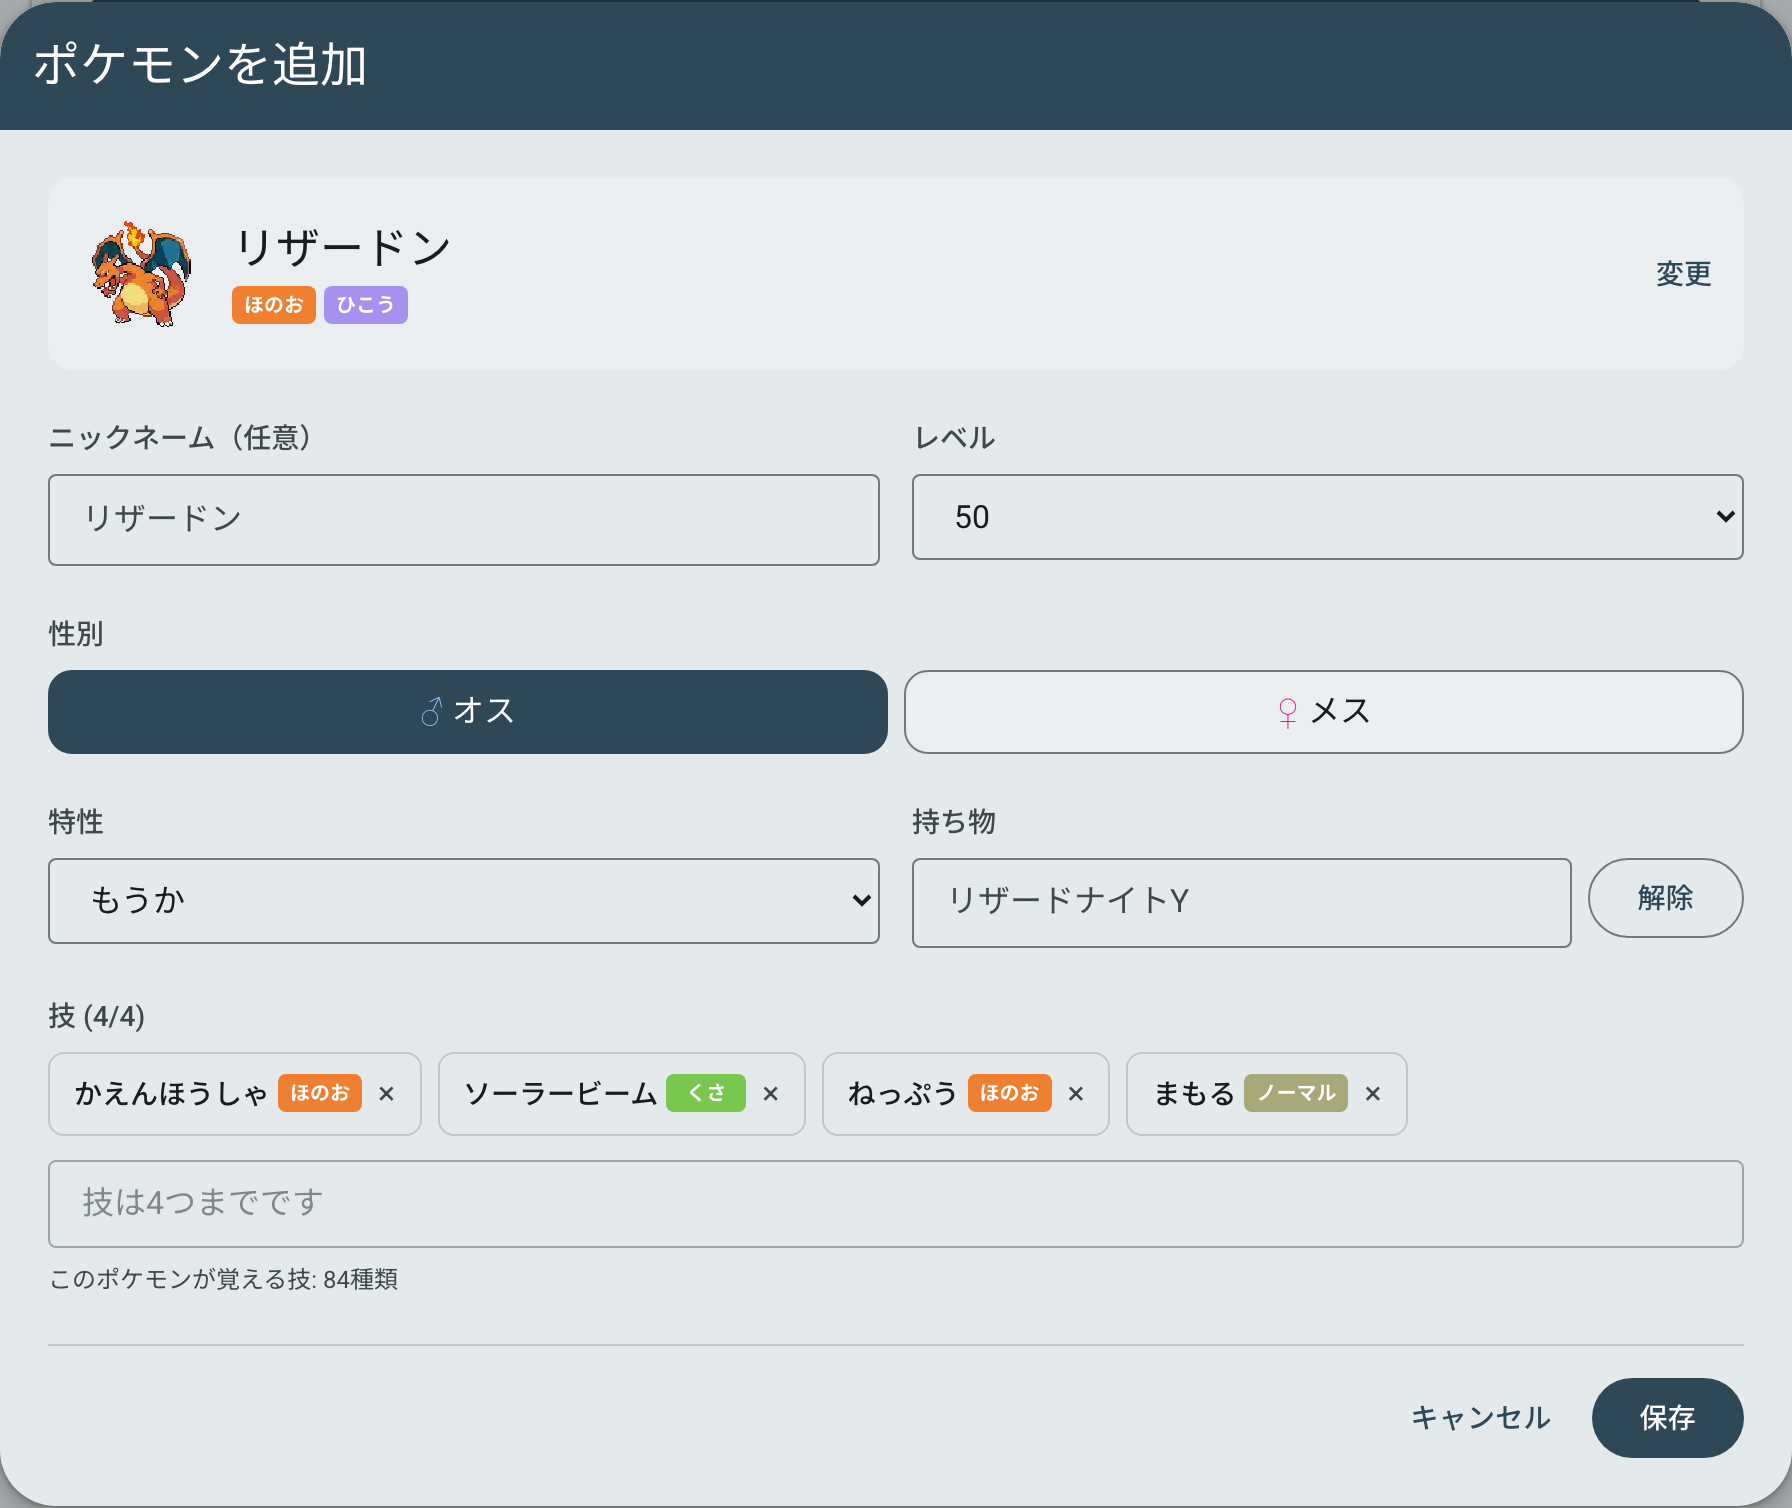
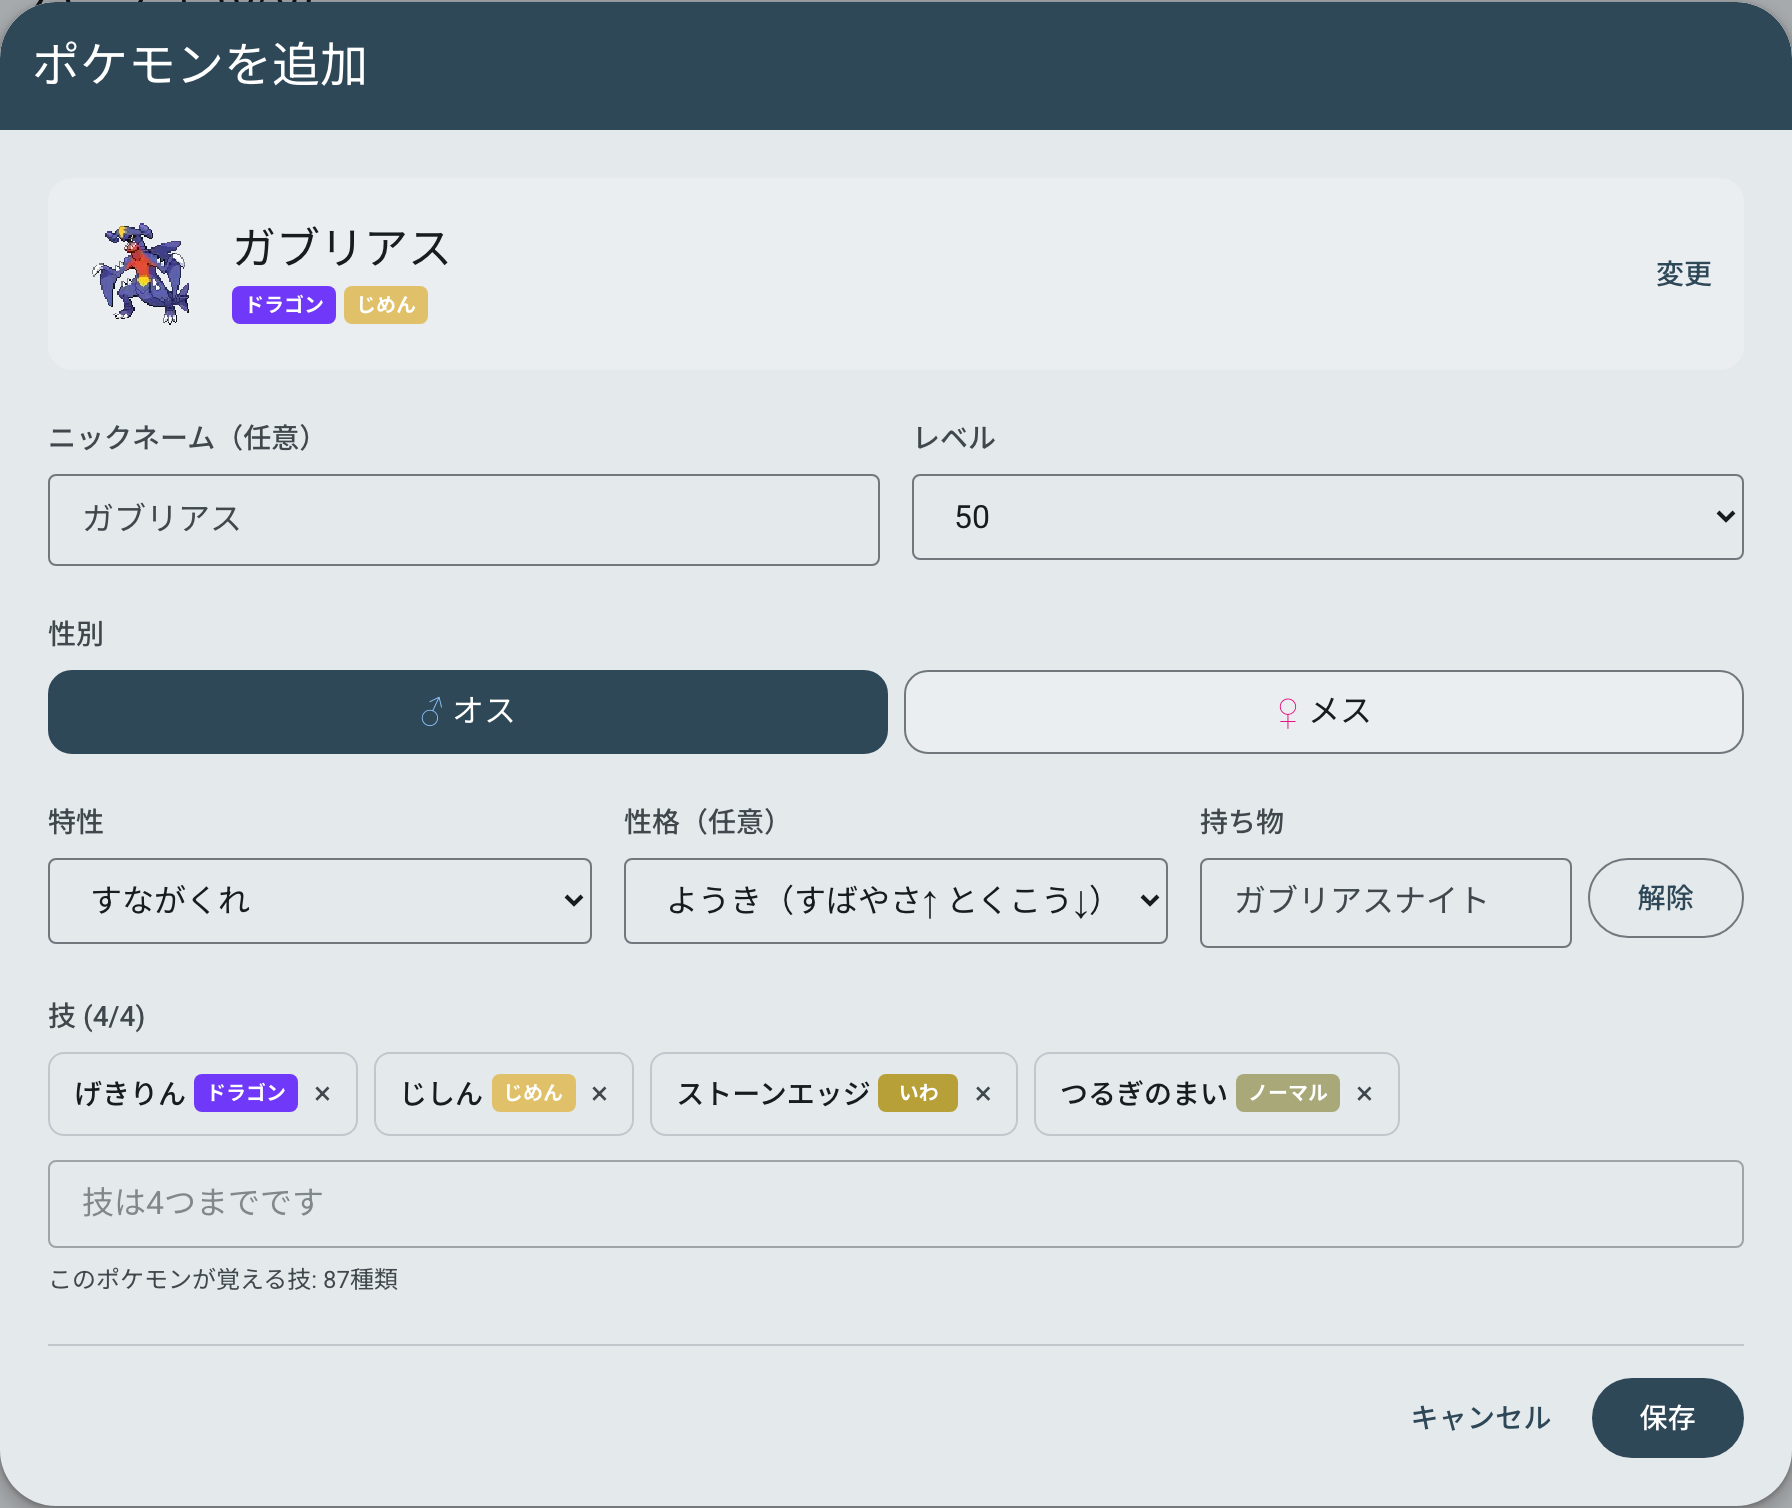
docs: 性格・チャンピオンズ風カード・めざめるパワー対応をREADMEと開発文書に反映
- README: 性格（任意・21種・使用頻度順）とめざめるパワーのタイプ別選択を
  使い方・できること・制限事項に追記（日英両方）
- スクリーンショット3枚を新カードレイアウト・性格セレクトが写る状態で撮り直し
- DEVELOPMENT.md: エディタ項目表に性格を追加、めざめるパワーの展開方式と
  PokemonCard 統一（CompactPokemonCard 削除）をUI・テスト・構成ツリーに反映
- CLAUDE.md: スタック記述を実態（Supabase）に修正

diff --git a/docs/DEVELOPMENT.md b/docs/DEVELOPMENT.md
@@ -97,8 +97,9 @@ flowchart TD
 | レベル | 1〜50 のセレクト（既定 50） |
 | 性別 | `オス`/`メス`/`不明`。種族から自動判定し、両性いる種族のみ選択UIを出す（`lib/gender.ts`） |
 | 特性 | 通常特性 + 隠れ特性 |
+| 性格 | 任意・21種（補正なし5性格は対戦上同等なので「まじめ」1つに集約）。よく使う10性格を先頭にした使用頻度順で、`ようき（すばやさ↑ とくこう↓）` 形式の補正付きラベルで表示（`lib/natures.ts`） |
 | 持ち物 | 対戦用アイテムに絞り込み + そのポケモン専用メガストーン（`lib/item-helpers.ts`, `ItemAutocomplete.tsx`） |
-| 技 | 種族別の習得可能技のみを候補に出す。タイプ・分類・威力・命中・PP を表示（`MoveAutocomplete.tsx`）。1〜4つ |
+| 技 | 種族別の習得可能技のみを候補に出す。タイプ・分類・威力・命中・PP を表示（`MoveAutocomplete.tsx`）。1〜4つ。めざめるパワーはタイプ別16種（`めざめるパワー（闘）` など）に展開して提示する — 展開は `lib/hidden-power.ts` を使って API とprebuildスクリプト側で行い、`pokemon-moves.json` は変更しない |
 | タイプ表示 | 18タイプのカラーバッジ（`lib/type-colors.ts`, `TypeIcon.tsx`） |
 
 `lib/gender.ts` の固定性別リストは PokeAPI の `gender_rate`（メス確率の8分率、`-1` は性別なし）から抽出したもの。第6世代は種族が確定しているため更新不要。
@@ -136,6 +137,8 @@ flowchart TD
 #### UI
 
 Material Design 3 のカラーロール（seed `#2F4858`）とエレベーションを CSS 変数で定義し、Tailwind CSS 4 の `@theme inline` にマッピングしている（`app/globals.css`）。Toast 通知（`Toast.tsx`）と読み込み中スケルトン（`Skeleton.tsx`）あり。レスポンシブ対応。
+
+パーティのカード表示はチャンピオンズ風の `PokemonCard.tsx` に統一（ホーム・ビルダー・共有ビューで共用）。カラーヘッダー（名前＋性別アイコン｜タイプ＋レベル）、技4枠のフル幅・省略なし表示、特性・性格・持ち物のラベル付きグリッドで構成し、モバイル375px幅でも全項目が読めることを `tests/e2e/mobile-card.spec.ts` で検証している。
 
 ### 技術スタック
 
@@ -283,7 +286,7 @@ npm run test:all       # 単体 → E2E
 ### テスト
 
 - **単体（Vitest, happy-dom）** — `tests/unit/`: `api-validation` / `gender` / `item-helpers` / `move-helpers` / `team-encoder` / `user-id`
-- **E2E（Playwright）** — `tests/e2e/`。`localhost:3003` で起動する（`next dev` の既定 3000 と衝突させないため `playwright.config.ts` で明示指定）。パーティ作成・ポケモン編集・削除・持ち物選択・共有・2ユーザー間共有・ユーザー分離・各種上限（パーティ数／ポケモン数／技数）をカバー
+- **E2E（Playwright）** — `tests/e2e/`。`localhost:3003` で起動する（`next dev` の既定 3000 と衝突させないため `playwright.config.ts` で明示指定）。パーティ作成・ポケモン編集・削除・持ち物選択・共有・2ユーザー間共有・ユーザー分離・各種上限（パーティ数／ポケモン数／技数）・モバイル幅でのカード全項目表示をカバー
 - **CI** — `.github/workflows/ci.yml`。`main` への PR と push で **lint → 単体テスト → build**（Node 20）。E2E は CI に含めていない
 
 ### ディレクトリ構成
@@ -312,8 +315,7 @@ npm run test:all       # 単体 → E2E
 │       ├── PokemonAutocomplete.tsx  # 種族検索（日英）
 │       ├── MoveAutocomplete.tsx     # 技検索
 │       ├── ItemAutocomplete.tsx     # 持ち物・メガストーン検索
-│       ├── PokemonCard.tsx          # 詳細表示
-│       ├── CompactPokemonCard.tsx   # 一覧・サンプル用
+│       ├── PokemonCard.tsx          # チャンピオンズ風カード（全画面で共用）
 │       ├── TeamView.tsx             # パーティ表示
 │       ├── ShareUrlDialog.tsx       # 共有URLダイアログ
 │       ├── TypeIcon.tsx             # タイプバッジ
@@ -328,6 +330,8 @@ npm run test:all       # 単体 → E2E
 │   ├── api-validation.ts        # Zod スキーマ・サイズ上限
 │   ├── rate-limit.ts            # インメモリ・スライディングウィンドウ
 │   ├── gender.ts                # 種族別の性別判定
+│   ├── natures.ts               # 性格21種・使用頻度順・補正ラベル
+│   ├── hidden-power.ts          # めざめるパワーのタイプ別16種展開
 │   ├── item-helpers.ts / move-helpers.ts / pokemon-data.ts
 │   ├── type-colors.ts / clipboard.ts / sample-team.ts
 ├── hooks/useDebouncedValue.ts   # 検索入力のデバウンス
@@ -387,8 +391,9 @@ Design premises:
 | Level | Select, 1–50 (defaults to 50) |
 | Gender | `オス`/`メス`/`不明` (male/female/unknown). Derived from the species; the selector is only rendered for species that have both (`lib/gender.ts`) |
 | Ability | Normal abilities plus the hidden ability |
+| Nature | Optional, one of 21 (the five neutral natures are competitively identical, so only まじめ represents them). Listed most-used first — the top 10 competitive natures, then the rest — each labelled with its stat changes, e.g. `ようき（すばやさ↑ とくこう↓）` (`lib/natures.ts`) |
 | Held item | Filtered to competitive items, plus the Mega Stone specific to that species (`lib/item-helpers.ts`, `ItemAutocomplete.tsx`) |
-| Moves | 1–4, suggested only from that species' learnable moves, shown with type, damage class, power, accuracy and PP (`MoveAutocomplete.tsx`) |
+| Moves | 1–4, suggested only from that species' learnable moves, shown with type, damage class, power, accuracy and PP (`MoveAutocomplete.tsx`). Hidden Power is expanded into 16 typed variants (`めざめるパワー（闘）` and so on) — the expansion lives in `lib/hidden-power.ts` and is applied by the API and the prebuild script; `pokemon-moves.json` itself is untouched |
 | Type display | 18 colour-coded type badges (`lib/type-colors.ts`, `TypeIcon.tsx`) |
 
 The fixed-gender lists in `lib/gender.ts` were extracted from PokeAPI's `gender_rate` (chance of being female in eighths; `-1` means genderless). Gen 6 species are final, so this never needs updating.
@@ -426,6 +431,8 @@ The fixed-gender lists in `lib/gender.ts` were extracted from PokeAPI's `gender_
 #### UI
 
 Material Design 3 colour roles (seed `#2F4858`) and elevations are defined as CSS variables and mapped into Tailwind CSS 4 via `@theme inline` (`app/globals.css`). Includes toast notifications (`Toast.tsx`) and loading skeletons (`Skeleton.tsx`). Responsive.
+
+Team cards use the Champions-style `PokemonCard.tsx` everywhere (home, builder, share view): a coloured header (name + gender icon | types + level), all four move slots rendered full-width with no truncation, and a labelled ability / nature / item grid. `tests/e2e/mobile-card.spec.ts` verifies every field stays readable at a 375px mobile viewport.
 
 ### Tech stack
 
@@ -573,7 +580,7 @@ Static JSON under `data/`. Move data originates from PokeAPI.
 ### Tests
 
 - **Unit (Vitest, happy-dom)** — `tests/unit/`: `api-validation` / `gender` / `item-helpers` / `move-helpers` / `team-encoder` / `user-id`
-- **E2E (Playwright)** — `tests/e2e/`, served on `localhost:3003` (set explicitly in `playwright.config.ts` to avoid colliding with `next dev`'s default 3000). Covers creating a team, editing Pokémon, deleting, item selection, sharing, two-user sharing, user isolation, and each limit (team count / Pokémon count / move count)
+- **E2E (Playwright)** — `tests/e2e/`, served on `localhost:3003` (set explicitly in `playwright.config.ts` to avoid colliding with `next dev`'s default 3000). Covers creating a team, editing Pokémon, deleting, item selection, sharing, two-user sharing, user isolation, each limit (team count / Pokémon count / move count), and full card visibility at mobile width
 - **CI** — `.github/workflows/ci.yml`: on PRs and pushes to `main`, **lint → unit tests → build** (Node 20). E2E is not part of CI
 
 ### Directory layout
@@ -583,7 +590,7 @@ See the Japanese section above for the annotated tree; the structure is:
 ```
 app/        pages (page, builder, my-teams, view, view/[shortId]) + api/ route handlers
 components/ SessionInitializer + ui/ (all 'use client')
-lib/        session, supabase, team-storage, share, api-validation, rate-limit, gender, helpers
+lib/        session, supabase, team-storage, share, api-validation, rate-limit, gender, natures, hidden-power, helpers
 hooks/      useDebouncedValue
 data/       static JSON (see "Data files")
 scripts/    generate-move-type-map.ts (runs on prebuild)

diff --git a/README.md b/README.md
@@ -8,8 +8,8 @@
 
 <p align="center">
   <img src="public/screenshots/editor.png" alt="ポケモン編集画面" width="720"><br>
-  <sub><b>ポケモン編集画面</b> — 特性・持ち物・技をその種族の候補から選択<br>
-  <i>Editor — ability, held item and moves, filtered to the species</i></sub>
+  <sub><b>ポケモン編集画面</b> — 特性・性格・持ち物・技をその種族の候補から選択<br>
+  <i>Editor — ability, nature, held item and moves, filtered to the species</i></sub>
 </p>
 
 <p align="center">
@@ -50,8 +50,9 @@
    - **レベル** — 1〜50（初期値50）
    - **性別** — オス／メス。性別が固定の種族では自動で決まり、選択欄は出ません
    - **特性** — 通常特性・隠れ特性から選択
+   - **性格**（任意）— よく使う性格から順に並んだ21種から選択。補正内容付きで表示されます（例: ようき＝すばやさ↑ とくこう↓）
    - **持ち物** — 対戦で使うアイテムに絞って表示。そのポケモン用のメガストーンも候補に出ます
-   - **技** — そのポケモンが覚える技のみから、1〜4つ
+   - **技** — そのポケモンが覚える技のみから、1〜4つ。めざめるパワーはタイプ別（16種）から選べます
 4. 「保存」で確定
 5. パーティ名を入力して保存（30文字まで）
 
@@ -77,7 +78,9 @@
 - **メガシンカ** はベースのポケモン＋メガストーンで表現
 - **日本語・英語の両方でポケモン検索**（「リザードン」でも「Charizard」でも引けます）
 - **覚える技だけを候補に表示** — タイプ・分類・威力・命中・PP つき
+- **めざめるパワーはタイプ別に選択** — 「めざめるパワー（闘）」のように16タイプから指定できます
 - **タイプは18色のバッジ表示** で一目で判別
+- **チャンピオンズ風のカード表示** — 技4つを省略せず全表示し、特性・性格・持ち物もラベル付きで一覧。スマートフォンでも全項目が読めます
 - **保存したパーティはあとから編集・削除** できます（「マイパーティ」から）
 - **複数の端末から同じパーティを開ける**。他の端末で先に更新されていた場合は警告が出るので、上書き事故が起きません
 - **オフラインでも編集できます**。通信が戻ってから保存し直してください（その旨のメッセージが出ます）
@@ -90,6 +93,7 @@
 | パーティのポケモン | 6体 |
 | レベル | 1〜50 |
 | 技 | 1体あたり1〜4つ |
+| 性格 | 21種から選択（任意） |
 | パーティ名 | 30文字 |
 | ニックネーム | 12文字 |
 
@@ -135,8 +139,9 @@ The UI is Japanese-only.
    - **Level** — 1–50 (defaults to 50)
    - **Gender** — オス (male) / メス (female). For species with a fixed gender this is decided automatically and the selector is hidden
    - **Ability** — normal abilities plus the hidden ability
+   - **Nature** (optional) — one of 21 natures, listed most-common first, each shown with its stat changes (e.g. ようき (Jolly) = Speed↑ Sp.Atk↓)
    - **Held item** — filtered to competitively relevant items, plus the Mega Stone for that species
-   - **Moves** — 1–4, restricted to moves that species can actually learn
+   - **Moves** — 1–4, restricted to moves that species can actually learn. Hidden Power is picked per type (16 variants)
 4. Confirm with **保存** (Save)
 5. Name the team and save it (30 characters max)
 
@@ -162,7 +167,9 @@ Then start the battle. Your opponent's team is read-only — you can only edit y
 - **Mega Evolution** is expressed as the base species plus a Mega Stone
 - **Search species in Japanese or English** — both "リザードン" and "Charizard" work
 - **Only learnable moves are suggested**, shown with type, damage class, power, accuracy and PP
+- **Hidden Power is selectable by type** — 16 variants such as めざめるパワー（闘） (Hidden Power Fighting)
 - **Types render as 18 colour-coded badges** for at-a-glance reading
+- **Champions-style team cards** — all four moves shown in full with no truncation, plus labelled ability / nature / item rows. Every field stays readable on a phone
 - **Saved teams can be edited or deleted later**, from マイパーティ (My team)
 - **Open the same team from multiple devices.** If another device saved first, you get a warning instead of silently clobbering it
 - **Editing works offline.** Save again once you are back online — the app tells you when this happens
@@ -175,6 +182,7 @@ Then start the battle. Your opponent's team is read-only — you can only edit y
 | Pokémon per team | 6 |
 | Level | 1–50 |
 | Moves | 1–4 per Pokémon |
+| Nature | one of 21, optional |
 | Team name | 30 characters |
 | Nickname | 12 characters |
 

diff --git a/CLAUDE.md b/CLAUDE.md
@@ -3,7 +3,7 @@
 ポケモン第6世代オープンチームシート用Webアプリ。UIはすべて日本語。
 
 ## スタック
-Next.js 16（App Router）/ React 19 / TypeScript 5 / Tailwind CSS 4 / Vercel KV（Redis）
+Next.js 16（App Router）/ React 19 / TypeScript 5 / Tailwind CSS 4 / Supabase（Postgres）
 
 ## コマンド
 npm run dev / build / test / test:e2e / test:all / lint
@@ -11,7 +11,7 @@ npm run dev / build / test / test:e2e / test:all / lint
 ## 構成
 - `app/` — ページ（builder, my-teams, view）+ APIルート（auth, teams, share, pokemon-moves）
 - `components/ui/` — 全て 'use client'。PokemonEditor が主要な編集UI
-- `lib/` — session.ts（HMAC認証）, api-validation.ts（Zod）, rate-limit.ts, team-storage.ts（KV + localStorage fallback）
+- `lib/` — session.ts（HMAC認証）, api-validation.ts（Zod）, rate-limit.ts, team-storage.ts（Supabase API + localStorage fallback）
 - `data/` — 静的JSON。pokemon-moves.json は大容量なのでAPI経由で読む
 - `types/pokemon.ts` — 全型定義
 - `tests/` — unit/（Vitest）, e2e/（Playwright, port 3003）
